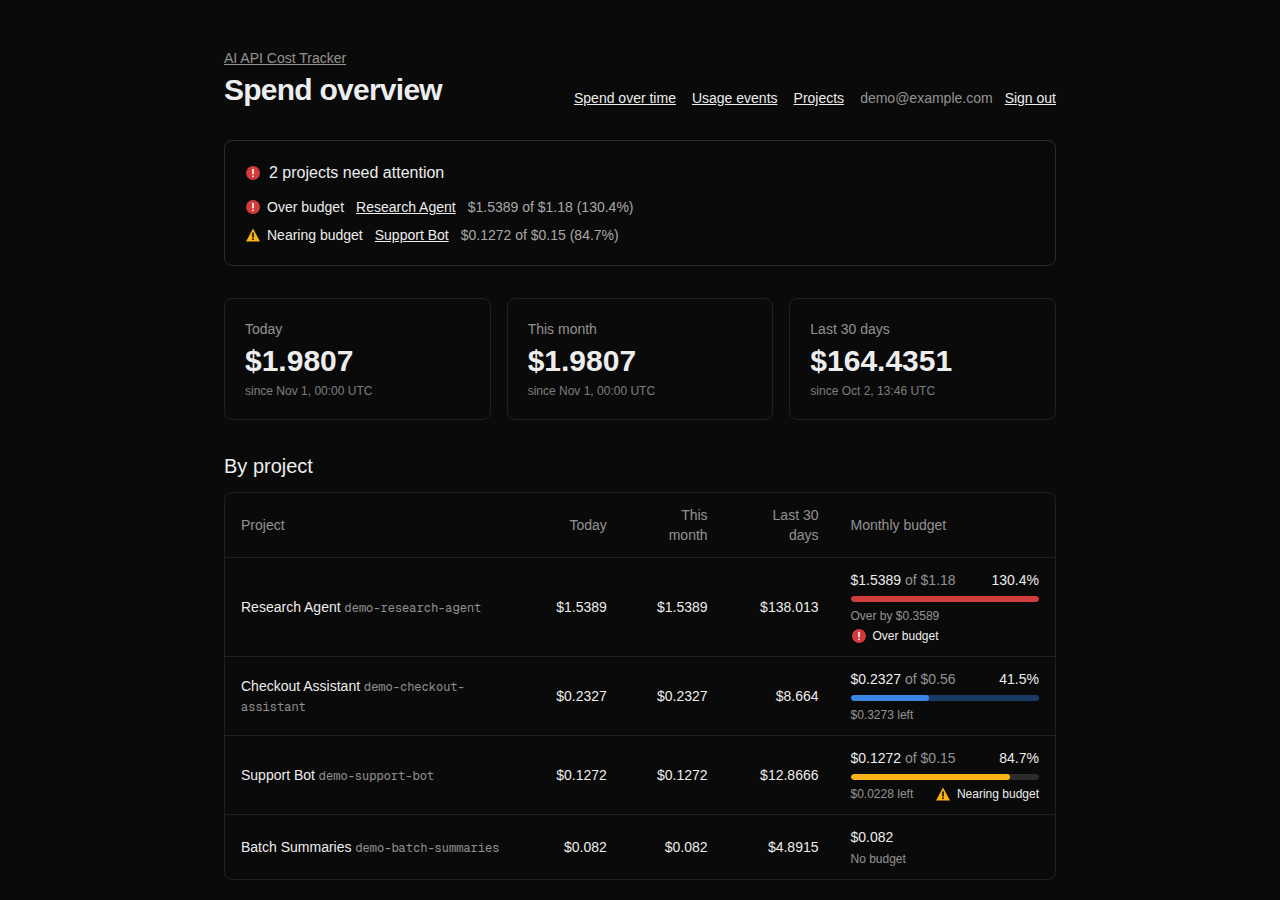
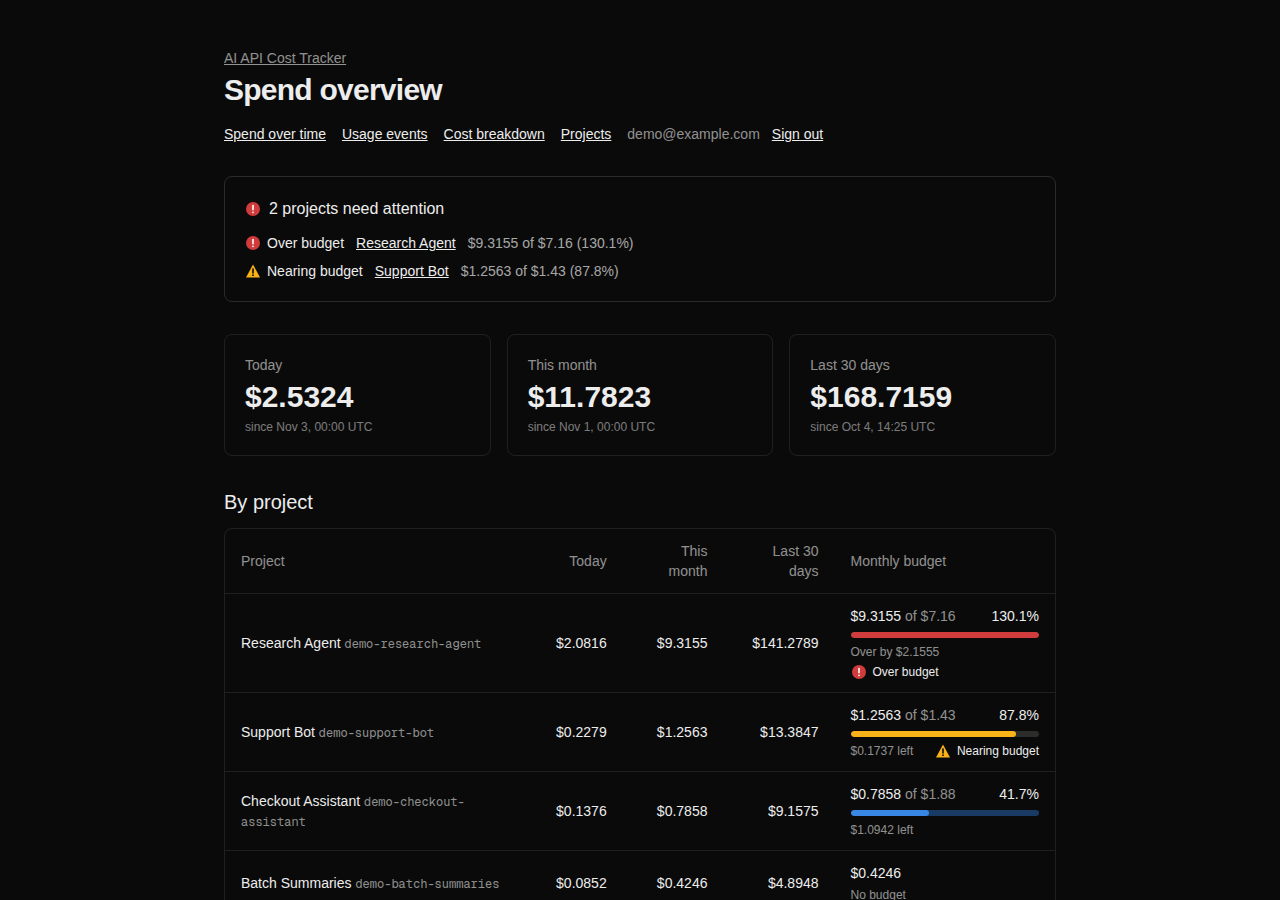
docs: refresh the README screenshots and add the cost breakdown
Replace the 1 November captures, which predate attribution and the cost
breakdown, with this PR's CI captures of the demo data in light and dark
mode. Add the breakdown, showing cost per resolved ticket for the Support
Bot, to the showcase; describe attribution in the usage image's alt text;
and update the caption and the status line, which still named Milestone 6
as next.

diff --git a/README.md b/README.md
@@ -9,13 +9,18 @@ It complements LLM gateways (which route requests and cap spend) and tracing too
   <img alt="Spend overview: two projects need attention, spend today, this month and over the last 30 days, and each project's monthly budget meter" src="docs/screenshots/overview-light.png">
 </picture>
 
-| Spend over time                                                                                                                                                                                                                        | Usage events                                                                                                                                                                                                                  |
-| -------------------------------------------------------------------------------------------------------------------------------------------------------------------------------------------------------------------------------------- | ----------------------------------------------------------------------------------------------------------------------------------------------------------------------------------------------------------------------------- |
-| <picture><source media="(prefers-color-scheme: dark)" srcset="docs/screenshots/spend-dark.png"><img alt="Daily spend over 90 days as a bar chart, with spend and tokens by provider" src="docs/screenshots/spend-light.png"></picture> | <picture><source media="(prefers-color-scheme: dark)" srcset="docs/screenshots/usage-dark.png"><img alt="Filterable table of usage events with tokens, cost and request ID" src="docs/screenshots/usage-light.png"></picture> |
+<picture>
+  <source media="(prefers-color-scheme: dark)" srcset="docs/screenshots/breakdown-dark.png">
+  <img alt="Cost by customer for the Support Bot over 90 days: each customer's cost, share, requests, resolved tickets and cost per resolved ticket, $0.0607 overall" src="docs/screenshots/breakdown-light.png">
+</picture>
 
-<sub>Demo data from `npm run db:demo`, captured by CI on 1 November 2026, and shown in your GitHub theme. The demo sets budgets from the current month's spend, so they're small this early in a month.</sub>
+| Spend over time                                                                                                                                                                                                                        | Usage events                                                                                                                                                                                                                                    |
+| -------------------------------------------------------------------------------------------------------------------------------------------------------------------------------------------------------------------------------------- | ----------------------------------------------------------------------------------------------------------------------------------------------------------------------------------------------------------------------------------------------- |
+| <picture><source media="(prefers-color-scheme: dark)" srcset="docs/screenshots/spend-dark.png"><img alt="Daily spend over 90 days as a bar chart, with spend and tokens by provider" src="docs/screenshots/spend-light.png"></picture> | <picture><source media="(prefers-color-scheme: dark)" srcset="docs/screenshots/usage-dark.png"><img alt="Filterable table of usage events with tokens, cost, customer, user, feature and run" src="docs/screenshots/usage-light.png"></picture> |
 
-> **Status:** Milestones 0–5 are complete: exact, tier-aware pricing, authenticated ingestion, the dashboard, budgets with alerts, Docker deployment, demo data, rate limiting and the public release. Next is automatic usage capture; see [docs/ROADMAP.md](docs/ROADMAP.md).
+<sub>Demo data from `npm run db:demo`, captured by CI on 3 November 2026, and shown in your GitHub theme. The breakdown shows cost per resolved ticket for the Support Bot, the project that resolves tickets. The demo sets budgets from the current month's spend, so they're small this early in a month.</sub>
+
+> **Status:** Milestones 0–5 are complete: exact, tier-aware pricing, authenticated ingestion, the dashboard, budgets with alerts, Docker deployment, demo data, rate limiting and the public release. Milestone 6 added the TypeScript and Python clients, OpenTelemetry intake and bill reconciliation (Gemini billing aside). Milestone 7, cost by customer, feature and agent run, is under way; see [docs/ROADMAP.md](docs/ROADMAP.md).
 
 ## Features
 
